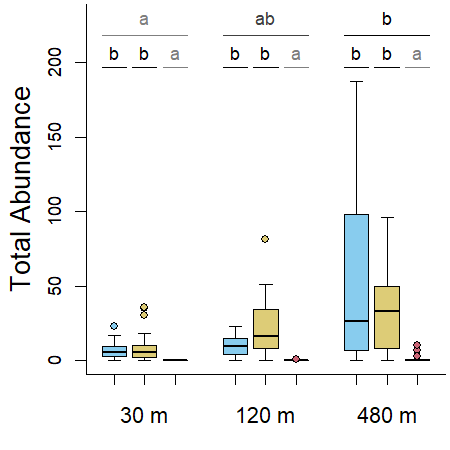
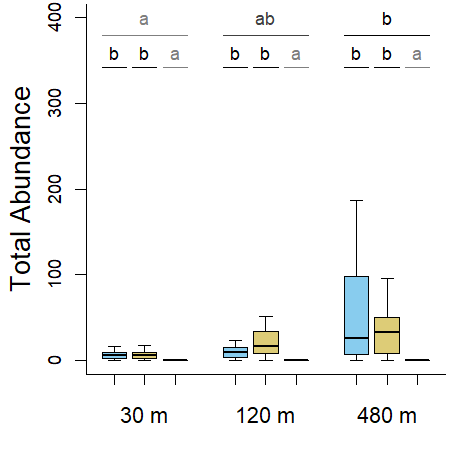
Updating boxplots of herbivores and detritivores

diff --git a/Abundance_Analyses/Abundance_Analyses_Herb_Det_Insects.md b/Abundance_Analyses/Abundance_Analyses_Herb_Det_Insects.md
@@ -228,7 +228,7 @@ col_survey_3 <- "#D55E00"
 col_survey_4 <- "#E69F00"
 
 par(mar = c(3.5, 4, 0.1, 0.1)+ 0.1, cex = 0.7, bty = "l")
-boxplot(com_herb_det_ab ~ SS, outline = T,
+boxplot(com_herb_det_ab ~ SS, outline = F,
         ylab = "", xlab = "", at = c(1,2,4,8), lwd = 0.5,
         main = "", xaxt="n", yaxt = "n", range = 1.5,
         col = rep(c(col_survey_1, col_survey_2, col_survey_3, col_survey_4),3), lty = 1,
@@ -316,12 +316,12 @@ col_pasture <- "#DDCC77"
 col_control <- "#88CCEE"
 
 par(mar = c(3.5, 4, 0.1, 0.1)+ 0.1, cex = 0.7, bty = "l")
-boxplot(com_herb_det_ab_SS1 ~ treatments_SS1*isolation_SS1, outline = T,
+boxplot(com_herb_det_ab_SS1 ~ treatments_SS1*isolation_SS1, outline = F,
         ylab = "", xlab = "", at = c(1,2,3, 5,6,7, 9,10,11), lwd = 0.5,
         main = "", xaxt="n", yaxt = "n", range = 1.5,
         col = rep(c(col_control, col_pasture, col_sugarcane),3), lty = 1,
         pch = 21, bg = rep(c(col_control, col_pasture, col_sugarcane),3), cex = 1,
-ylim = c(0,150))
+ylim = c(0,400))
 
 title(ylab="Total Abundance", line=2.5, cex.lab=1.52)
 #title(main= "Predatory Insects", adj = 1)
@@ -330,7 +330,7 @@ axis(1,labels = c("30 m","120 m","480 m"), cex.axis = 1.25, at =c(2,6,10), line 
 axis(1,labels = rep("",9), cex.axis = 0.8, at =c(1,2,3, 5,6,7, 9,10,11), line = 0,tick = T)
 
 
-position1 <- 150
+position1 <- 400
 text(y = rep(position1, 3),x = c(2, 6, 10),
      labels = c("b","a","a"),
      cex = 1, adj = c(0.5,0.5),
@@ -342,7 +342,7 @@ arrows(x0 = c(1, 5, 9) - 0.4,
        y1 = rep(position1*0.95, 9),
        code = 0, col = c("grey0","grey50","grey50"))
 
-legend(x = 7, y = 100, fill = c(col_control, col_pasture, col_sugarcane), legend = c("Control", "Pasture", "Sugarcane"), cex = 1)
+legend(x = 1, y = 300, fill = c(col_control, col_pasture, col_sugarcane), legend = c("Control", "Pasture", "Sugarcane"), cex = 1)
 ```
 
 <img src="Abundance_Analyses_Herb_Det_Insects_files/figure-gfm/unnamed-chunk-10-1.png" style="display: block; margin: auto;" />
@@ -454,12 +454,12 @@ isolation is different from the 30m.
 
 ``` r
 par(mar = c(3.5, 4, 0.1, 0.1)+ 0.1, cex = 0.7, bty = "l")
-boxplot(com_herb_det_ab_SS2 ~ treatments_SS2_3_4*isolation_SS2_3_4, outline = T,
+boxplot(com_herb_det_ab_SS2 ~ treatments_SS2_3_4*isolation_SS2_3_4, outline = F,
         ylab = "", xlab = "", at = c(1,2,3, 5,6,7, 9,10,11), lwd = 0.5,
         main = "", xaxt="n", yaxt = "n", range = 1.5,
         col = rep(c(col_control, col_pasture, col_sugarcane),3), lty = 1,
         pch = 21, bg = rep(c(col_control, col_pasture, col_sugarcane),3), cex = 1,
-        ylim = c(0,230))
+        ylim = c(0,400))
 
 title(ylab="Total Abundance", line=2.5, cex.lab=1.52)
 #title(main= "Predatory Insects", adj = 1)
@@ -468,7 +468,7 @@ axis(1,labels = c("30 m","120 m","480 m"), cex.axis = 1.25, at =c(2,6,10), line 
 axis(1,labels = rep("",9), cex.axis = 0.8, at =c(1,2,3, 5,6,7, 9,10,11), line = 0,tick = T)
 
 
-position1 <- 230
+position1 <- 400
 text(y = rep(position1, 3),x = c(2, 6, 10),
      labels = c("a","ab","b"),
      cex = 1, adj = c(0.5,0.5),
@@ -600,12 +600,12 @@ Ploting it
 ``` r
 par(mar = c(3.5, 4, 0.1, 0.1)+ 0.1, cex = 0.7, bty = "l")
 
-boxplot(com_herb_det_ab_SS3 ~ treatments_SS2_3_4*isolation_SS2_3_4, outline = T,
+boxplot(com_herb_det_ab_SS3 ~ treatments_SS2_3_4*isolation_SS2_3_4, outline = F,
         ylab = "", xlab = "", at = c(1,2,3, 5,6,7, 9,10,11), lwd = 0.5,
         main = "", xaxt="n", yaxt = "n", range = 1.5,
         col = rep(c(col_control, col_pasture, col_sugarcane),3), lty = 1,
         pch = 21, bg = rep(c(col_control, col_pasture, col_sugarcane),3), cex = 1,
-        ylim = c(0,700))
+        ylim = c(0,400))
 
 title(ylab="Total Abundance", line=2.5, cex.lab=1.52)
 #title(main= "Predatory Insects", adj = 1)
@@ -613,7 +613,7 @@ axis(2, cex.axis = 1, gap.axis = -1)
 axis(1,labels = c("30 m","120 m","480 m"), cex.axis = 1.25, at =c(2,6,10), line = 0.5, tick = F, gap.axis = -1)
 axis(1,labels = rep("",9), cex.axis = 0.8, at =c(1,2,3, 5,6,7, 9,10,11), line = 0,tick = T)
 
-position1 <- 700
+position1 <- 400
 text(y = rep(position1, 3),x = c(2, 6, 10),
      labels = c("a","a","b"),
      cex = 1, adj = c(0.5,0.5),
@@ -888,12 +888,12 @@ sugarcane ponds. In both, 30m is different from 120 and 480m.
 ``` r
 par(mar = c(3.5, 4, 0.1, 0.1)+ 0.1, cex = 0.7, bty = "l")
 
-boxplot(com_herb_det_ab_SS4 ~ treatments_SS2_3_4*isolation_SS2_3_4, outline = T,
+boxplot(com_herb_det_ab_SS4 ~ treatments_SS2_3_4*isolation_SS2_3_4, outline = F,
         ylab = "", xlab = "", at = c(1,2,3, 5,6,7, 9,10,11), lwd = 0.5,
         main = "", xaxt="n", yaxt = "n", range = 1.5,
         col = rep(c(col_control, col_pasture, col_sugarcane),3), lty = 1,
         pch = 21, bg = rep(c(col_control, col_pasture, col_sugarcane),3), cex = 1,
-        ylim = c(0,550))
+        ylim = c(0,400))
 
 title(ylab="Total Abundance", line=2.5, cex.lab=1.52)
 #title(main= "Predatory Insects", adj = 1)
@@ -901,7 +901,7 @@ axis(2, cex.axis = 1, gap.axis = -1)
 axis(1,labels = c("30 m","120 m","480 m"), cex.axis = 1.25, at =c(2,6,10), line = 0.5, tick = F, gap.axis = -1)
 axis(1,labels = rep("",9), cex.axis = 0.8, at =c(1,2,3, 5,6,7, 9,10,11), line = 0,tick = T)
 
-position1 <- 550
+position1 <- 400
 
 text(y = rep(position1, 9),x = c(1,2,3 ),
      labels = c("b","a","b"  ),
